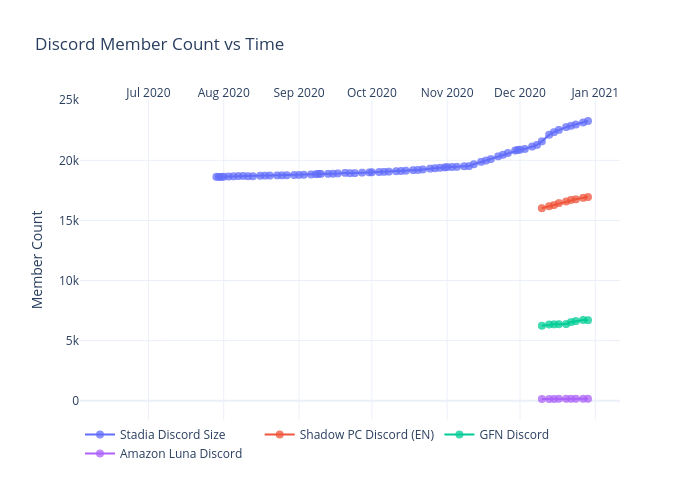
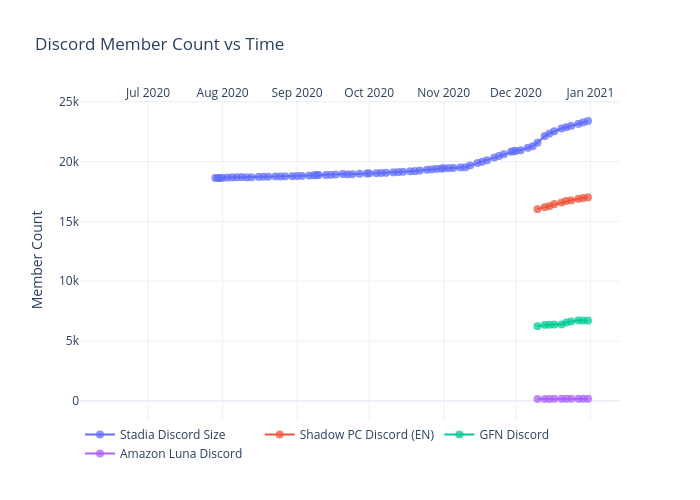
Add files via upload

diff --git a/discord/figure.js b/discord/figure.js
@@ -88,7 +88,20 @@ var figure = {
                 "2020-12-27",
                 "2020-12-29",
                 "2020-12-31",
-                "2021-01-03"
+                "2021-01-03",
+                "2021-01-05",
+                "2021-01-07",
+                "2021-01-10",
+                "2021-01-12",
+                "2021-01-14",
+                "2021-01-17",
+                "2021-01-19",
+                "2021-01-21",
+                "2021-01-24",
+                "2021-01-26",
+                "2021-01-28",
+                "2021-01-31",
+                "2021-02-02"
             ],
             "ysrc": "jdeslip:374:7ac37c",
             "y": [
@@ -166,7 +179,8 @@ var figure = {
                 "22872",
                 "22981",
                 "23151",
-                "23274"
+                "23274",
+                "23390"
             ],
             "marker": {
                 "size": 8,
@@ -263,7 +277,20 @@ var figure = {
                 "2020-12-27",
                 "2020-12-29",
                 "2020-12-31",
-                "2021-01-03"
+                "2021-01-03",
+                "2021-01-05",
+                "2021-01-07",
+                "2021-01-10",
+                "2021-01-12",
+                "2021-01-14",
+                "2021-01-17",
+                "2021-01-19",
+                "2021-01-21",
+                "2021-01-24",
+                "2021-01-26",
+                "2021-01-28",
+                "2021-01-31",
+                "2021-02-02"
             ],
             "ysrc": "jdeslip:374:c98e1c",
             "y": [
@@ -341,7 +368,8 @@ var figure = {
                 "16707",
                 "16758",
                 "16881",
-                "16947"
+                "16947",
+                "17008"
             ],
             "marker": {
                 "size": 8,
@@ -438,7 +466,20 @@ var figure = {
                 "2020-12-27",
                 "2020-12-29",
                 "2020-12-31",
-                "2021-01-03"
+                "2021-01-03",
+                "2021-01-05",
+                "2021-01-07",
+                "2021-01-10",
+                "2021-01-12",
+                "2021-01-14",
+                "2021-01-17",
+                "2021-01-19",
+                "2021-01-21",
+                "2021-01-24",
+                "2021-01-26",
+                "2021-01-28",
+                "2021-01-31",
+                "2021-02-02"
             ],
             "ysrc": "jdeslip:374:08922f",
             "y": [
@@ -516,7 +557,8 @@ var figure = {
                 "6542",
                 "6628",
                 "6720",
-                "6703"
+                "6703",
+                "6704"
             ],
             "marker": {
                 "size": 8,
@@ -613,7 +655,20 @@ var figure = {
                 "2020-12-27",
                 "2020-12-29",
                 "2020-12-31",
-                "2021-01-03"
+                "2021-01-03",
+                "2021-01-05",
+                "2021-01-07",
+                "2021-01-10",
+                "2021-01-12",
+                "2021-01-14",
+                "2021-01-17",
+                "2021-01-19",
+                "2021-01-21",
+                "2021-01-24",
+                "2021-01-26",
+                "2021-01-28",
+                "2021-01-31",
+                "2021-02-02"
             ],
             "ysrc": "jdeslip:374:3547f6",
             "y": [
@@ -691,7 +746,8 @@ var figure = {
                 "163",
                 "164",
                 "165",
-                "164"
+                "164",
+                "163"
             ],
             "marker": {
                 "size": 8,
@@ -709,8 +765,8 @@ var figure = {
             "side": "top",
             "type": "date",
             "range": [
-                "2020-06-03 18:32:31.5673",
-                "2021-01-10 05:27:28.4327"
+                "2020-06-03 18:11:10.8075",
+                "2021-01-12 05:48:49.1925"
             ],
             "title": {
                 "text": ""
@@ -720,8 +776,8 @@ var figure = {
         "yaxis": {
             "type": "linear",
             "range": [
-                -1842.5520262869659,
-                25262.552026286965
+                -1517.1540454938097,
+                25053.15404549381
             ],
             "title": {
                 "text": "Member Count"
